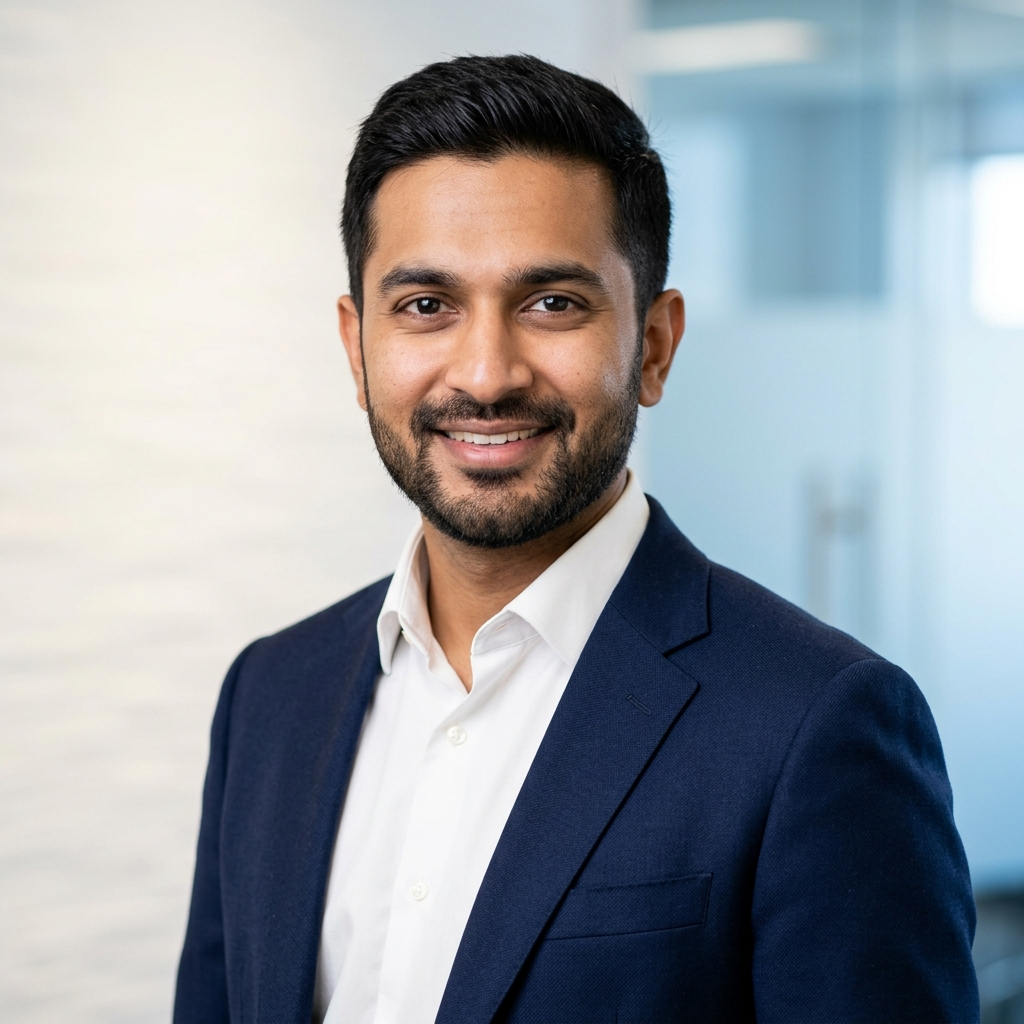
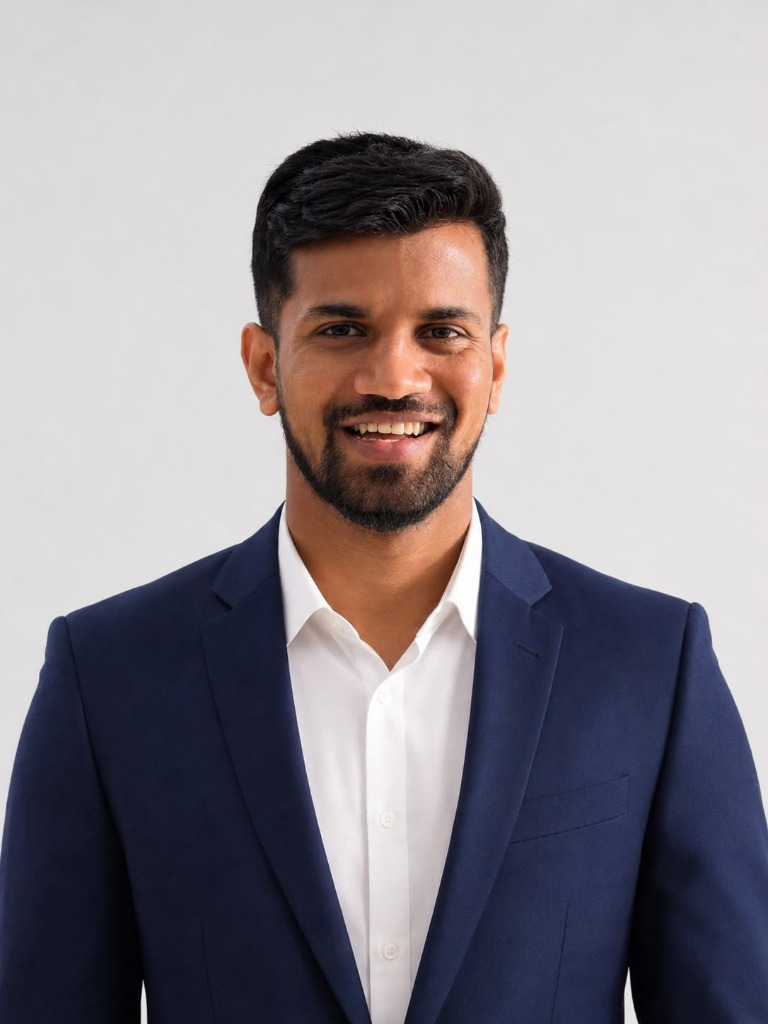
Update profile portrait with user's official photo

diff --git a/components/sections/AboutSection.tsx b/components/sections/AboutSection.tsx
@@ -35,7 +35,7 @@ export function AboutSection() {
           <div className="lg:col-span-5 flex flex-col items-center">
             <div className="relative w-full max-w-sm">
               <div className="relative rounded-3xl overflow-hidden border border-slate-200 shadow-lg bg-white">
-                <div className="relative aspect-square w-full">
+                <div className="relative aspect-[4/5] w-full">
                   <Image
                     src="/images/hemanth-portrait.jpg"
                     alt="Hemanth Ranam - Technology Entrepreneur"
